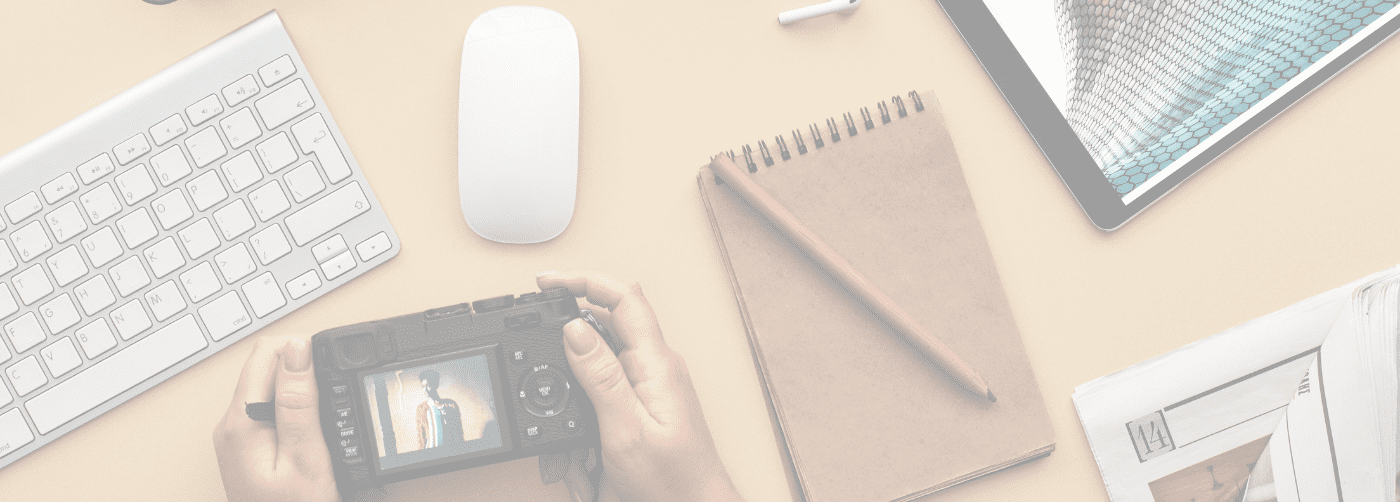
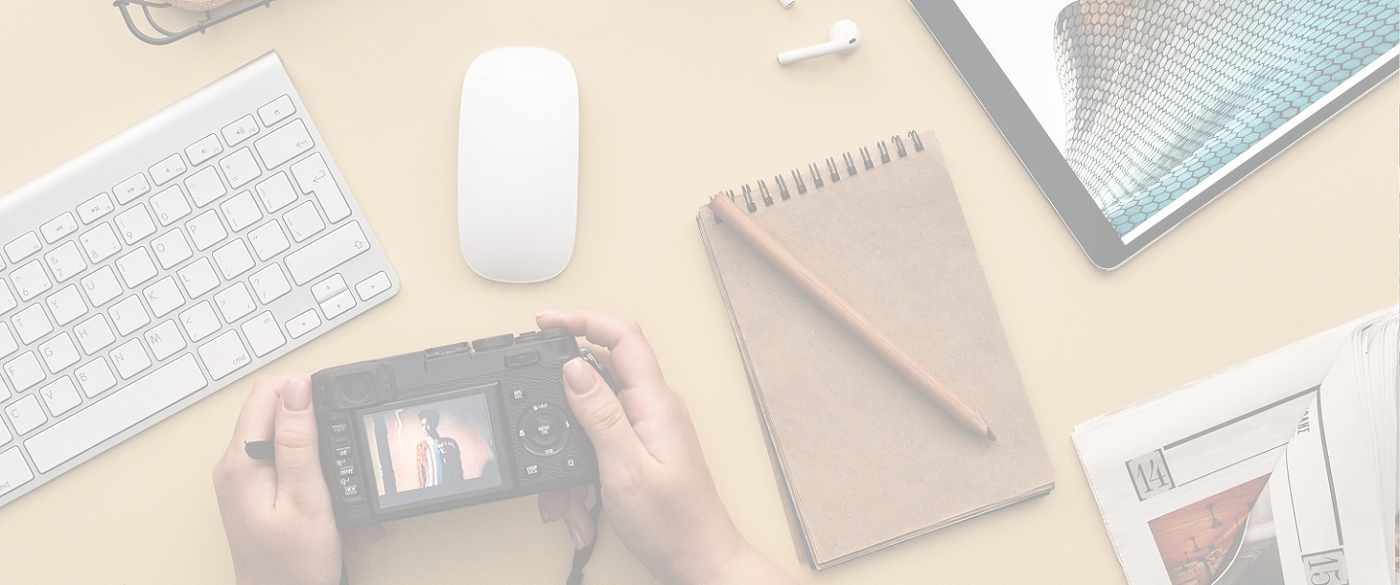
Arreglo imágenes

diff --git a/css/main.css b/css/main.css
@@ -1,3 +1,1 @@
-@import url("https://fonts.googleapis.com/css2?family=Megrim&family=Roboto:ital,wght@0,100;0,300;0,400;0,500;0,700;0,900;1,100;1,300;1,400;1,500;1,700;1,900&display=swap");@import url("https://fonts.googleapis.com/css2?family=Exo:ital,wght@0,100;0,200;0,300;0,400;0,500;0,600;0,700;0,800;0,900;1,100;1,200;1,300;1,400;1,500;1,600;1,700;1,800;1,900&family=Montserrat:ital,wght@0,100;0,200;0,300;0,400;0,500;0,600;0,700;0,800;0,900;1,100;1,200;1,300;1,400;1,500;1,600;1,700;1,800;1,900&family=Nanum+Gothic:wght@400;700;800&display=swap");html,body{height:100%}footer{padding-bottom:1.5rem}footer#sticky-footer{flex-shrink:none}footer .socialMedia{margin-bottom:1.5rem}@media (min-width: 992px){footer .socialMedia{margin-right:40%;margin-bottom:0}}footer .socialMedia .btn-social{color:white;background-color:#AE494A;height:2.5rem;width:2.5rem;display:inline-flex;align-items:center;justify-content:center;padding:0;border-radius:100%}footer .socialMedia .btn-social:hover{color:#383838;background-color:#F46430}footer #footer{font:400 0.75rem "Montserrat",cursive}#page-content{flex:1 0 auto}*,*::before,*::after{box-sizing:border-box}article,aside,figcaption,figure,footer,header,hgroup,main,nav,section{display:block}.fixed-top{position:fixed;top:0;right:0;left:0;z-index:1030}.page-section{margin-bottom:1.875rem;padding:1rem}@media (min-width: 992px){.page-section{margin-bottom:3.375rem}}@media (min-width: 1200px){.page-section{margin-bottom:4.375rem}}@media (min-width: 768px) and (max-width: 992px){.page-section{padding:1rem 0.5rem}}.page-section h2{color:#5D9168;font:400 3.25rem "Montserrat",sans-serif;margin-bottom:4rem}@media (min-width: 768px){.page-section h2{font-size:3.5rem}}button{border:none;border-radius:0.25rem;color:white;font:500 1rem "Roboto",sans-serif;padding:0.5rem 0.75rem;text-transform:uppercase}p{color:#5D9168;font:400 1rem "Roboto",sans-serif;line-height:1.75rem;margin:0 0.75rem 1rem 0.75rem;text-align:center}header.masthead{padding-top:3rem;padding-bottom:1rem}header.masthead div{margin:4.5rem 0}header.masthead .index{background-attachment:fixed;background-image:url("../img/fondoS.png");background-size:cover;margin-top:5rem}@media (min-width: 576px){header.masthead .index{background-image:url("../img/fondoM.png")}}@media (min-width: 992px){header.masthead .index{background-image:url("../img/fondoL.png")}}header.masthead .index img{margin-top:7rem;height:auto;width:9.375rem}@media (min-width: 768px){header.masthead .index img{margin-top:3.5rem;width:12.5rem}}@media (min-width: 992px){header.masthead .index img{width:16.875rem}}header.masthead .index h3{font:500 3.25rem "Megrim",cursive;padding:2rem 1.125rem 5rem 1.125rem}@media (min-width: 768px){header.masthead .index h3{font:500 4rem "Megrim",cursive;padding:0 0 2rem 0}}.sk-chase-dot{-webkit-animation:sk-chase-dot 2.0s;animation:sk-chase-dot 2.0s}.sk-chase-dot:hover{-webkit-animation:sk-chase-dot 2.0s infinite ease-in-out both;animation:sk-chase-dot 2.0s infinite ease-in-out both}.sk-chase{-webkit-animation:sk-chase 2.5s infinite linear both;animation:sk-chase 2.5s infinite linear both}@-webkit-keyframes sk-chase{100%{transform:rotate(360deg)}}@keyframes sk-chase{100%{transform:rotate(360deg)}}@-webkit-keyframes sk-chase-dot{80%,100%{transform:rotate(360deg)}}@keyframes sk-chase-dot{80%,100%{transform:rotate(360deg)}}.navbar{display:none;flex-wrap:wrap;padding:0.5rem}.navbar .navbar-brand{display:inline-block;padding-top:0.3125rem;padding-bottom:0.3125rem;margin-right:1rem}.navbar .navbar-brand:hover,.navbar .navbar-brand:focus{text-decoration:none}.navbar .navbar-brand .nav-logo{font:500 1.125rem "Megrim",cursive;margin-bottom:0}.navbar .navbar-toggler{background-color:transparent;border:1px solid transparent;border-radius:0.25rem;font-size:1.25rem;line-height:1;padding:0.25rem 0.75rem}.navbar .navbar-toggler:hover,.navbar .navbar-toggler:focus{text-decoration:none}.navbar .nav-link{display:block;padding:0.5rem 1rem}.navbar .nav-link.disabled{color:#6c757d;pointer-events:none;cursor:default}.navbar .nav-link:hover,.navbar .nav-link:focus{text-decoration:none}.navbar-toggler-icon{display:inline-block;width:1.5em;height:1.5em;vertical-align:middle;content:"";background:no-repeat center center;background-size:100% 100%}#mainNav{background-color:white;padding-bottom:0rem}#mainNav .container{margin-right:0;margin-left:0}#mainNav.navbar-shrink{background-color:white;padding-top:0rem;padding-bottom:0rem}#mainNav .navbar-brand{color:black}#mainNav .navbar-brand img{height:3.75rem}#mainNav .navbar-toggler{color:#fff;padding:0.75rem;background-color:#AE494A;border:0}#mainNav .navbar-nav{width:90%}#mainNav .navbar-nav .nav-item .nav-link{color:#AE494A;font:500 1rem "Montserrat",sans-serif}@media (min-width: 1175px){#mainNav .navbar-nav .nav-item .nav-link{letter-spacing:0.125rem}}#mainNav .navbar-nav .nav-item .nav-link.active,#mainNav .navbar-nav .nav-item .nav-link:hover{color:#F46430}.navbar-nav{display:flex;flex-direction:column;padding-left:0;margin-bottom:0;list-style:none}.navbar-nav .dropdown-menu{position:static;float:none}.navbar-nav .nav-link{padding-right:0;padding-left:0}#navbarResponsive{padding-right:0;padding-left:0}@media (min-width: 1100px){#navbarResponsive{padding-left:6.25rem}}@media (max-width: 992px){#navbarResponsive{margin-left:45%}}@media (max-width: 768px){#navbarResponsive{margin-left:35%}}@media (min-width: 992px){#mainNav{border:none;transition:padding-top 0.3s ease-in-out, padding-bottom 0.3s ease-in-out}.navbar-expand-lg{flex-flow:row nowrap;justify-content:flex-start}.navbar-expand-lg .navbar-nav{flex-direction:row}.navbar-expand-lg .navbar-nav .dropdown-menu{position:absolute}.navbar-expand-lg .navbar-nav .nav-link{padding-right:0.5rem;padding-left:0.5rem}.navbar-expand-lg .navbar-collapse{display:flex !important;flex-basis:auto}.navbar-expand-lg .navbar-toggler{display:none}}.navbar-expand .navbar-nav{flex-direction:row}.navbar-expand .navbar-nav .dropdown-menu{position:absolute}.navbar-expand .navbar-nav .nav-link{padding-right:0.5rem;padding-left:0.5rem}@media (min-width: 768px){.container{max-width:none}.navbar-expand-md .navbar-nav{flex-direction:row}.navbar-expand-md .navbar-nav .dropdown-menu{position:absolute}.navbar-expand-md .navbar-nav .nav-link{padding-right:0.5rem;padding-left:0.5rem}}@media (min-width: 576px){.container{max-width:none}.navbar-expand-sm{flex-flow:row nowrap;justify-content:flex-start}.navbar-expand-sm .navbar-nav{flex-direction:row}.navbar-expand-sm .navbar-nav .dropdown-menu{position:absolute}.navbar-expand-sm .navbar-nav .nav-link{padding-right:0.5rem;padding-left:0.5rem}}@media (min-width: 1200px){.container{max-width:none}.navbar-expand-xl .navbar-nav{flex-direction:row}.navbar-expand-xl .navbar-nav .dropdown-menu{position:absolute}.navbar-expand-xl .navbar-nav .nav-link{padding-right:0.5rem;padding-left:0.5rem}}#contact{background-attachment:fixed;background-image:url(../img/contact.png);background-size:cover}#contact h3{color:#383838;font:500 1.625rem "Montserrat",cursive;margin-bottom:2.5rem}#contact .form-group{margin-bottom:1.5rem}#contact .form-group input{padding:1rem}#contact .form-group input.form-control{height:auto}#contact .form-group textarea{padding:1rem;height:100%;min-height:10rem}#contact .form-group.form-group-textarea{height:100%}.botonContacto{background-color:#5D9168;margin-top:2rem;margin-bottom:1rem;width:50%}.botonContacto:hover{color:black;background-color:#8EBD33}.rounded-circle{border-radius:50% !important}.team-member img{border:0.5rem solid rgba(0,0,0,0.1);height:14rem;width:14rem}.team-member h4{color:#383838;margin-top:1.5rem;margin-bottom:0}.estiloServicios{padding-bottom:3.75rem}.estiloServicios:hover .icon-estilo{color:#F46430}.estiloServicios .icon-estilo{color:#AE494A}.estiloServicios h4{color:#383838;font:500 1.25rem "Roboto",sans-serif;text-align:center}.estiloServicios p{max-width:500px}.estiloServicios h5{color:#5D9168;font:500 1.25rem "Roboto",sans-serif;text-align:center}.estiloServicios button.agregarServ{background-color:#5D9168}.estiloServicios button.agregarServ:hover{color:black;background-color:#8EBD33}.estiloServicios button.quitarServ{background-color:#AE494A}.estiloServicios button.quitarServ:hover{color:black;background-color:#F46430}@media (min-width: 768px){.estiloServicios{max-width:33.333333%;padding-left:0.75rem;padding-right:0.75rem}}.verServ{background-color:#8EBD33;width:50%}.verServ:hover{transform:scale(1.15)}#servAgregados{margin-top:7rem}#notificacion,#notificacionQ{color:#5D9168;font:500 1.25rem "Roboto",sans-serif;margin-bottom:2rem;text-align:center}#finalizar h3{color:#5D9168;font:500 1.25rem "Roboto",sans-serif;margin:1.5rem 0}#sobreNosotros{background-attachment:fixed;background-image:url("../img/fondoNosotros.png");background-size:cover}#sobreNosotros p{color:#383838;font:500 1.063rem "Montserrat",cursive;line-height:1.875rem;padding:1rem 0}@media (min-width: 768px){#sobreNosotros p{padding:1.5rem 2.5rem;line-height:3.125rem}}@media (min-width: 1200px){#sobreNosotros p{padding:2rem 4.75rem}}
-
[1 lines of base64/hex data omitted]
+@import url("https://fonts.googleapis.com/css2?family=Megrim&family=Roboto:ital,wght@0,100;0,300;0,400;0,500;0,700;0,900;1,100;1,300;1,400;1,500;1,700;1,900&display=swap");@import url("https://fonts.googleapis.com/css2?family=Exo:ital,wght@0,100;0,200;0,300;0,400;0,500;0,600;0,700;0,800;0,900;1,100;1,200;1,300;1,400;1,500;1,600;1,700;1,800;1,900&family=Montserrat:ital,wght@0,100;0,200;0,300;0,400;0,500;0,600;0,700;0,800;0,900;1,100;1,200;1,300;1,400;1,500;1,600;1,700;1,800;1,900&family=Nanum+Gothic:wght@400;700;800&display=swap");html,body{height:100%}footer{padding-bottom:1.5rem}footer#sticky-footer{flex-shrink:none}footer .socialMedia{margin-bottom:1.5rem}@media (min-width: 992px){footer .socialMedia{margin-right:40%;margin-bottom:0}}footer .socialMedia .btn-social{color:white;background-color:#AE494A;height:2.5rem;width:2.5rem;display:inline-flex;align-items:center;justify-content:center;padding:0;border-radius:100%}footer .socialMedia .btn-social:hover{color:#383838;background-color:#F46430}footer #footer{font:400 0.75rem "Montserrat",cursive}#page-content{flex:1 0 auto}*,*::before,*::after{box-sizing:border-box}article,aside,figcaption,figure,footer,header,hgroup,main,nav,section{display:block}.fixed-top{position:fixed;top:0;right:0;left:0;z-index:1030}.page-section{margin-bottom:1.875rem;padding:1rem}@media (min-width: 992px){.page-section{margin-bottom:3.375rem}}@media (min-width: 1200px){.page-section{margin-bottom:4.375rem}}@media (min-width: 768px) and (max-width: 992px){.page-section{padding:1rem 0.5rem}}.page-section h2{color:#5D9168;font:400 3.25rem "Montserrat",sans-serif;margin-bottom:4rem}@media (min-width: 768px){.page-section h2{font-size:3.5rem}}button{border:none;border-radius:0.25rem;color:white;font:500 1rem "Roboto",sans-serif;padding:0.5rem 0.75rem;text-transform:uppercase}p{color:#5D9168;font:400 1rem "Roboto",sans-serif;line-height:1.75rem;margin:0 0.75rem 1rem 0.75rem;text-align:center}header.masthead{padding-top:3rem;padding-bottom:1rem}header.masthead div{margin:4.5rem 0}header.masthead .index{background-attachment:fixed;background-image:url("../img/fondoS.png");margin-top:5rem}@media (min-width: 576px){header.masthead .index{background-image:url("../img/fondoM.png")}}@media (min-width: 992px){header.masthead .index{background-image:url("../img/fondoL.png")}}header.masthead .index img{margin-top:7rem;height:auto;width:9.375rem}@media (min-width: 768px){header.masthead .index img{margin-top:3.5rem;width:12.5rem}}@media (min-width: 992px){header.masthead .index img{width:16.875rem}}header.masthead .index h3{font:500 3.25rem "Megrim",cursive;padding:2rem 1.125rem 5rem 1.125rem}@media (min-width: 576px){header.masthead .index h3{font:500 4rem "Megrim",cursive;padding:0 0 2rem 0}}.sk-chase-dot{animation:sk-chase-dot 2.0s}.sk-chase-dot:hover{animation:sk-chase-dot 2.0s infinite ease-in-out both}.sk-chase{animation:sk-chase 2.5s infinite linear both}@keyframes sk-chase{100%{transform:rotate(360deg)}}@keyframes sk-chase-dot{80%,100%{transform:rotate(360deg)}}.navbar{display:none;flex-wrap:wrap;padding:0.5rem}.navbar .navbar-brand{display:inline-block;padding-top:0.3125rem;padding-bottom:0.3125rem;margin-right:1rem}.navbar .navbar-brand:hover,.navbar .navbar-brand:focus{text-decoration:none}.navbar .navbar-brand .nav-logo{font:500 1.125rem "Megrim",cursive;margin-bottom:0}.navbar .navbar-toggler{background-color:transparent;border:1px solid transparent;border-radius:0.25rem;font-size:1.25rem;line-height:1;padding:0.25rem 0.75rem}.navbar .navbar-toggler:hover,.navbar .navbar-toggler:focus{text-decoration:none}.navbar .nav-link{display:block;padding:0.5rem 1rem}.navbar .nav-link.disabled{color:#6c757d;pointer-events:none;cursor:default}.navbar .nav-link:hover,.navbar .nav-link:focus{text-decoration:none}.navbar-toggler-icon{display:inline-block;width:1.5em;height:1.5em;vertical-align:middle;content:"";background:no-repeat center center;background-size:100% 100%}#mainNav{background-color:white;padding-bottom:0rem}#mainNav .container{margin-right:0;margin-left:0}#mainNav.navbar-shrink{background-color:white;padding-top:0rem;padding-bottom:0rem}#mainNav .navbar-brand{color:black}#mainNav .navbar-brand img{height:3.75rem}#mainNav .navbar-toggler{color:#fff;padding:0.75rem;background-color:#AE494A;border:0}#mainNav .navbar-nav{width:90%}#mainNav .navbar-nav .nav-item .nav-link{color:#AE494A;font:500 1rem "Montserrat",sans-serif}@media (min-width: 1175px){#mainNav .navbar-nav .nav-item .nav-link{letter-spacing:0.125rem}}#mainNav .navbar-nav .nav-item .nav-link.active,#mainNav .navbar-nav .nav-item .nav-link:hover{color:#F46430}.navbar-nav{display:flex;flex-direction:column;padding-left:0;margin-bottom:0;list-style:none}.navbar-nav .dropdown-menu{position:static;float:none}.navbar-nav .nav-link{padding-right:0;padding-left:0}#navbarResponsive{padding-right:0;padding-left:0}@media (min-width: 1100px){#navbarResponsive{padding-left:6.25rem}}@media (max-width: 992px){#navbarResponsive{margin-left:45%}}@media (max-width: 768px){#navbarResponsive{margin-left:35%}}@media (min-width: 992px){#mainNav{border:none;transition:padding-top 0.3s ease-in-out, padding-bottom 0.3s ease-in-out}.navbar-expand-lg{flex-flow:row nowrap;justify-content:flex-start}.navbar-expand-lg .navbar-nav{flex-direction:row}.navbar-expand-lg .navbar-nav .dropdown-menu{position:absolute}.navbar-expand-lg .navbar-nav .nav-link{padding-right:0.5rem;padding-left:0.5rem}.navbar-expand-lg .navbar-collapse{display:flex !important;flex-basis:auto}.navbar-expand-lg .navbar-toggler{display:none}}.navbar-expand .navbar-nav{flex-direction:row}.navbar-expand .navbar-nav .dropdown-menu{position:absolute}.navbar-expand .navbar-nav .nav-link{padding-right:0.5rem;padding-left:0.5rem}@media (min-width: 768px){.container{max-width:none}.navbar-expand-md .navbar-nav{flex-direction:row}.navbar-expand-md .navbar-nav .dropdown-menu{position:absolute}.navbar-expand-md .navbar-nav .nav-link{padding-right:0.5rem;padding-left:0.5rem}}@media (min-width: 576px){.container{max-width:none}.navbar-expand-sm{flex-flow:row nowrap;justify-content:flex-start}.navbar-expand-sm .navbar-nav{flex-direction:row}.navbar-expand-sm .navbar-nav .dropdown-menu{position:absolute}.navbar-expand-sm .navbar-nav .nav-link{padding-right:0.5rem;padding-left:0.5rem}}@media (min-width: 1200px){.container{max-width:none}.navbar-expand-xl .navbar-nav{flex-direction:row}.navbar-expand-xl .navbar-nav .dropdown-menu{position:absolute}.navbar-expand-xl .navbar-nav .nav-link{padding-right:0.5rem;padding-left:0.5rem}}#contact{background-attachment:fixed;background-image:url(../img/contact.png)}#contact h3{color:#383838;font:500 1.625rem "Montserrat",cursive;margin-bottom:2.5rem}#contact .form-group{margin-bottom:1.5rem}#contact .form-group input{padding:1rem}#contact .form-group input.form-control{height:auto}#contact .form-group textarea{padding:1rem;height:100%;min-height:10rem}#contact .form-group.form-group-textarea{height:100%}.botonContacto{background-color:#5D9168;margin-top:2rem;margin-bottom:1rem;width:50%}.botonContacto:hover{color:black;background-color:#8EBD33}.rounded-circle{border-radius:50% !important}.team-member img{border:0.5rem solid rgba(0,0,0,0.1);height:14rem;width:14rem}.team-member h4{color:#383838;margin-top:1.5rem;margin-bottom:0}.estiloServicios{padding-bottom:3.75rem}.estiloServicios:hover .icon-estilo{color:#F46430}.estiloServicios .icon-estilo{color:#AE494A}.estiloServicios h4{color:#383838;font:500 1.25rem "Roboto",sans-serif;text-align:center}.estiloServicios p{max-width:500px}.estiloServicios h5{color:#5D9168;font:500 1.25rem "Roboto",sans-serif;text-align:center}.estiloServicios button.agregarServ{background-color:#5D9168}.estiloServicios button.agregarServ:hover{color:black;background-color:#8EBD33}.estiloServicios button.quitarServ{background-color:#AE494A}.estiloServicios button.quitarServ:hover{color:black;background-color:#F46430}@media (min-width: 768px){.estiloServicios{max-width:33.333333%;padding-left:0.75rem;padding-right:0.75rem}}.verServ{background-color:#8EBD33;width:50%}.verServ:hover{transform:scale(1.15)}#servAgregados{margin-top:7rem}#notificacion,#notificacionQ{color:#5D9168;font:500 1.25rem "Roboto",sans-serif;margin-bottom:2rem;text-align:center}#finalizar h3{color:#5D9168;font:500 1.25rem "Roboto",sans-serif;margin:1.5rem 0}#sobreNosotros{background-attachment:fixed;background-image:url("../img/sobreNosotros.png")}#sobreNosotros p{color:#383838;font:500 1.063rem "Montserrat",cursive;line-height:1.875rem;padding:1rem 0}@media (min-width: 768px){#sobreNosotros p{padding:1.5rem 2.5rem;line-height:3.125rem}}@media (min-width: 1200px){#sobreNosotros p{padding:2rem 4.75rem}}

diff --git a/SCSS/global/_header.scss b/SCSS/global/_header.scss
@@ -7,7 +7,6 @@ header.masthead {
   & .index {
     background-attachment: fixed;
     background-image: url("../img/fondoS.png");
-    background-size: cover;
     margin-top: 5rem;
     @media (min-width: 576px) {
       background-image: url("../img/fondoM.png");
@@ -30,7 +29,7 @@ header.masthead {
     h3 {
       font: $font__logo-main;
       padding: 2rem 1.125rem 5rem 1.125rem;
-      @media (min-width: 768px) {
+      @media (min-width: 576px) {
         font: $font__logo-mainResponsive;
         padding: 0 0 2rem 0;
       }

diff --git a/SCSS/sections/_sobreNosotros.scss b/SCSS/sections/_sobreNosotros.scss
@@ -1,7 +1,6 @@
 #sobreNosotros {
     background-attachment: fixed;
-    background-image: url("../img/fondoNosotros.png");
-    background-size: cover;
+    background-image: url("../img/sobreNosotros.png");
     p {
         color: $dark-grey;
         font: $font__nosotros;

diff --git a/SCSS/sections/_contacto.scss b/SCSS/sections/_contacto.scss
@@ -1,7 +1,6 @@
 #contact {
     background-attachment: fixed;
     background-image: url(../img/contact.png);
-    background-size: cover;
     h3 {
         color:$dark-grey;
         font: $font__contact-subtitile;
